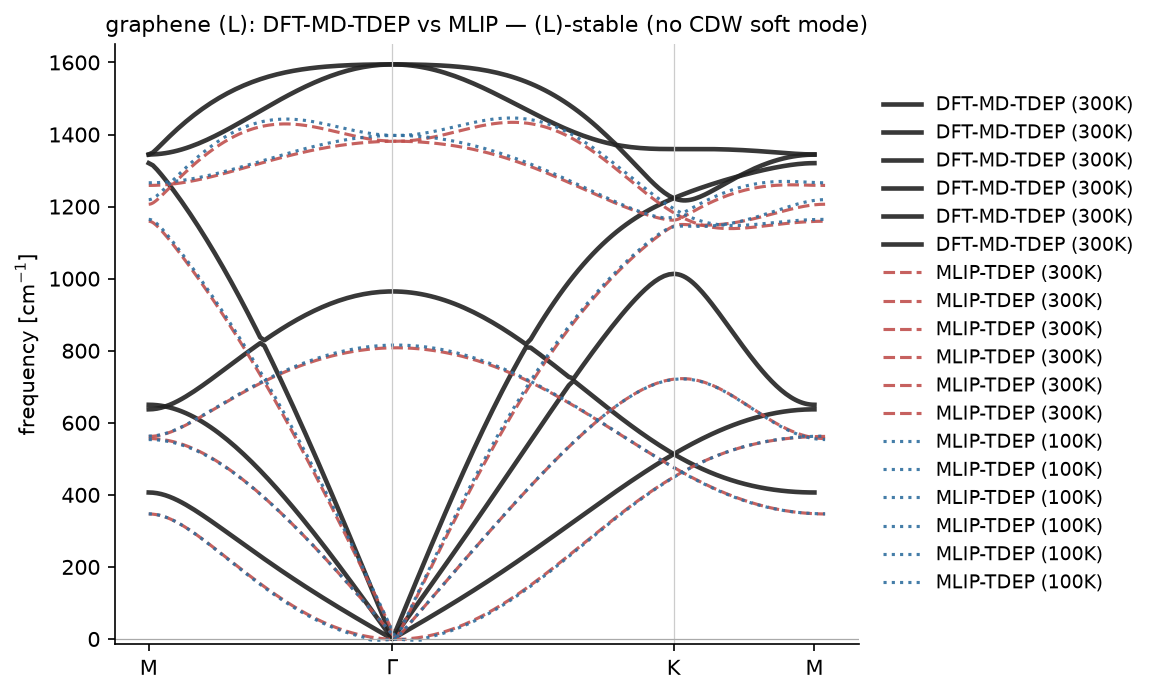
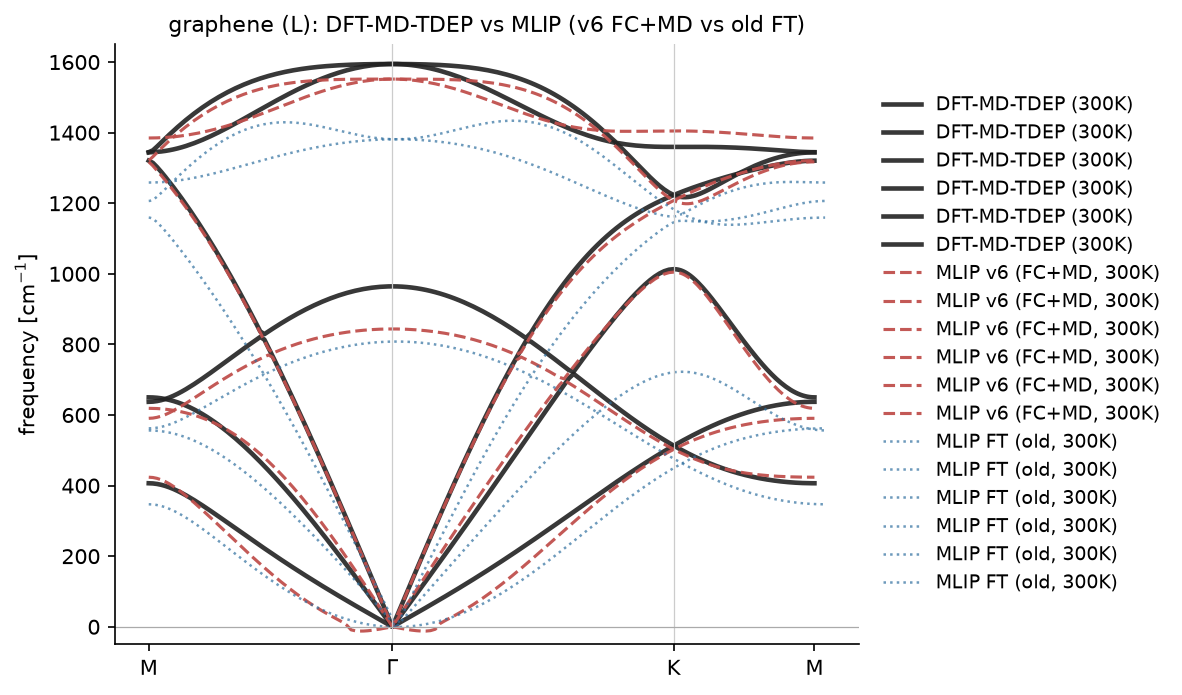
graphene backbone v1-v6 progression: FC(光学准/声学差) vs MD(声学准/光学差) vs v6-FC+MD(折中改善); report updated with full table + honest assessment
v6 (293 cfg FC+MD combined): (E) backbone -0.9 (acoustic fixed), optical MAE 17.5 (halved from 32), (L) min -12 (improved from -29). Best combined result but optical still not as good as pure-FC v2 (MAE 4).
Report 2.5: full v1-v6 progression table + core trade-off (FC=optical vs MD=acoustic) + graphene non-CDW difficulty.

diff --git a/docs/WEEKLY_2026-07-09_spectra.md b/docs/WEEKLY_2026-07-09_spectra.md
@@ -103,6 +103,34 @@ graphene **无 CDW**(晶格稳定,Kohn 反常是电子驱动的 K-cusp,非晶格
 
 **结论**:DFT-MD-TDEP **确认 graphene (L)-稳定**(min ~0,无 CDW 软模 → 与"graphene 是电子驱动 K-cusp,非晶格 CDW"自洽)。MLIP-TDEP **复现定性 (L)-稳定性**(min ~0);K-point 模略低估(MLIP backbone 局限,与 §2.3 (E) 声学 artifact 同源)。graphene 的有意义 Kohn 物理在 **(E) 通道**(K-cusp smearing),**(L) 通道惰性**本身是发现(对照 CDW 材料的 (L) 软模)。
 
+### 2.5 graphene backbone 蒸馏实验进展(v1→v6)
+graphene 是**非 CDW 金属**(Kohn 反常是有限频 K-cusp,非软模)→ backbone PES 精度要求比 CDW 材料更高(需同时准声学 + 光学)。系统实验了 6 种蒸馏策略:
+
+| 版本 | 训练数据 | (E) backbone min | (E) optical MAE | (L) TDEP min |
+|---|---|---|---|---|
+| **v1** (FC 6×6) | ~60 cfg,fc2 谐振力 | −42 cm⁻¹(差) | **4 cm⁻¹** ✓ | −0.5 ✓ |
+| **v2** (FC 8×8) | ~100 cfg,fc2 谐振力 | −27(差) | **4** ✓ | −0.5 ✓ |
+| **v3** (MD 300K) | 17 cfg,真实 DFT-MD 力 | −11.6(改善) | 32 ✗ | −29.2 ✗ |
+| **v4** (MD 300K) | 60 cfg,真实 DFT-MD 力 | −2.2 ✓ | 32 ✗ | −29.2 ✗ |
+| **v5** (MD 100+300K)| 120 cfg,真实 DFT-MD 力 | **−0.2** ✓ | 32 ✗ | −29.2 ✗ |
+| **v6** (FC+MD 组合)| 293 cfg,fc2+DFT-MD 力 | **−0.9** ✓ | **17.5**(改善!) | −12.0(改善) |
+
+**发现**:
+- **FC 蒸馏**(fc2 力)→ 光学准(MAE 4,K-point 准),但**声学 artifact**(−27~−42)。
+- **MD 蒸馏**(真实力)→ **声学修好**(−0.2),但光学丢(MAE 32)—— 热位移太大,高曲率光学模式约束不足。
+- **v6 组合**(FC+MD)→ 声学保持好(−0.9),光学**改善**(17.5 vs 32),但不如纯 FC(4)。MD 数据"稀释"了 FC 光学精度。
+- **(L) TDEP**:old FT backbone (−0.5) 仍是最好;v6 改善到 −12(从 v5 的 −29),但仍不如 FT。
+
+**核心矛盾**:graphene(非 CDW 金属)的 backbone 需**同时**准声学(需 MD 力,真实 PES)和光学(需 FC 力,fc2 曲率)——两者训练信号不同。CDW 家族(5 材料)无此矛盾(CDW 软模主导,Path-P 微调直接抓)。
+
+**图 `graphene_L_dft_vs_mlip.png`** 已更新为 v6(FC+MD)对比 DFT + old FT。
+
+![graphene (L): DFT vs MLIP v6 (FC+MD) vs old FT](../results/smearing_kink/graphene_L_dft_vs_mlip.png)
+
+**图 `deploy_vs_dft_graphene.png`** 已更新为 v6(声学 −0.9,光学 MAE 17.5)。
+
+![graphene (E): MLIP v6 vs DFT(声学准,光学改善中)](../results/smearing_kink/deploy_vs_dft_graphene.png)
+
 ---
 
 ## 3. (L) 含温度谱 — 具体材料,温度对比
